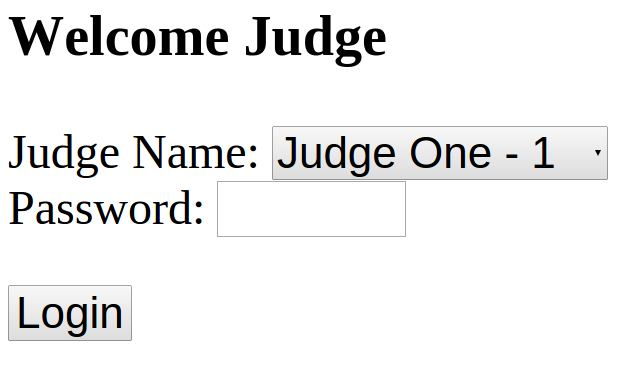
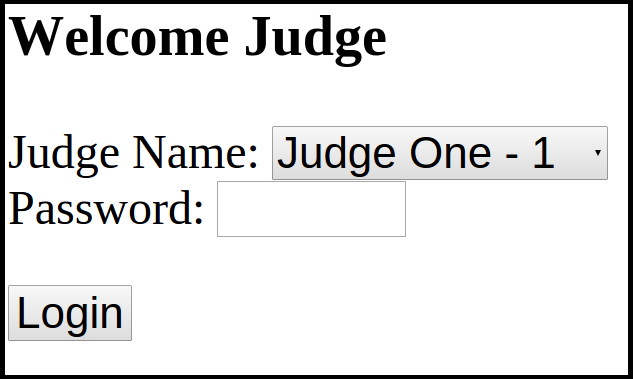
Explaining what the app does in more detail

Changed region(s): [[0.0, 0.0, 1.0, 1.0]]

diff --git a/docs/what.md b/docs/what.md
@@ -19,7 +19,8 @@ a page which shows the highest 5 scores for each grade.
 A judge uses an ipad/iphone/android/tablet to connect to the application.  The judge then finds their name and the grade
 the are assigned to on a dropdown.   The judge then enters the password and clicks login.
 
-<img src="img/login.png" border=2 />
+![Image of login screen]
+(img/login.png)
 
 The judge see sees the begin screen.    This screen confirms their identity, and shows them how many projects they
    have judged and shows them how many more they could possibly judge.   For example if 3rd grade had 20 students and
